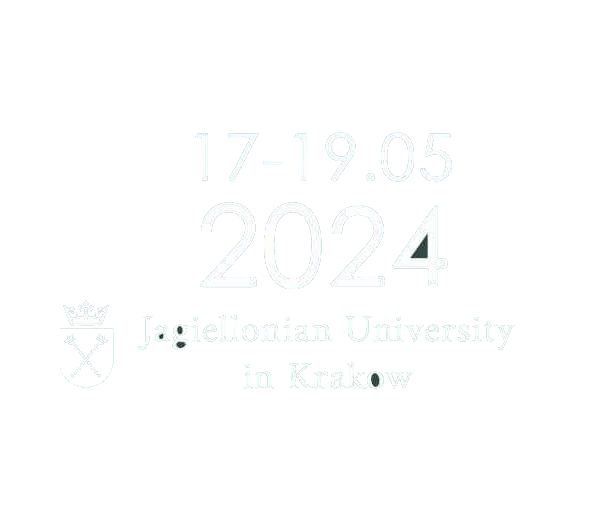
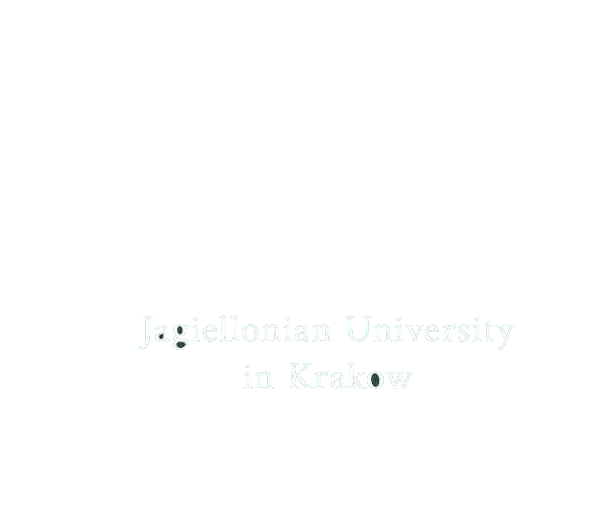
2025 version

diff --git a/src/Utils/Data.js b/src/Utils/Data.js
@@ -4,116 +4,74 @@ import discussion from '../Assets/program/discussion.png';
 
 const Program = [
     {
-        day:"17. May",
+        day:"23. May",
         events:[
+//             {
+//                 title:"Participants registration",
+// /*Max 410 Ch*/  description:"We need to register everyone and open the conference.",
+//                 time:"12:00-14:00",
+//                 speaker:"All attendents",
+//                 icon:null_icon
+//             },           
             {
-                title:"Participants registration",
-/*Max 410 Ch*/  description:"We need to register everyone and open the conference.",
-                time:"12:00-14:00",
-                speaker:"All attendents",
-                icon:null_icon
-            },
-            {
-                title:"Conference opening, inaugural lecture \"Molecular Scissors of CRISPR/Cas9\"",
-                description:"As our first event, we invite you to listen to dr Krzysztof Chyliński talking about CRISPR/Cas9",
-                time:"14:00-15:30",
-                speaker:"dr Krzysztof Chyliński",
+                title:"Events to be scheduled",
+                description:"Attending the Genomica conference is a pathway to many abilities some consider to be unnatural.",
+                time:"Hour/Minute-Hour/Minute",
+                speaker:"Speaker to be revealed",
                 icon:main_event
-            },
-            {
-                title:"Poster Session",
-                description:"We invite you to our first poster session",
-                time:"15:30-17:30",
-                speaker:"All attendents",
-                icon:discussion
             },
         ]
     },
     {
-        day:"18. May",
+        day:"24. May",
         events:[
             {
-                title:"Machine learning methods for the functional analysis of the 3D genome structure",
-                description:"Special lecture",
-                time:"9:00-10:00",
-                speaker:"dr Teresa Szczepińska",
-                icon:main_event
-            },
-            {
-                title:"First oral session",
-                description:"First oral session for 1,5h",
-                time:"10:00-11:30",
-                speaker:"All attendents",
-                icon:discussion
-            },
-            {
-                title:"Second poster session",
-                description:"We invite you to our second poster session for 1h",
-                time:"11:45-12:45",
-                speaker:"All attendents",
-                icon:discussion
-            },
-            {
-                title:"Second oral session",
-                description:"Second oral session for 1,25h",
-                time:"13:00-14:15",
-                speaker:"All attendents",
-                icon:discussion
-            },
-            {
-                title:"Lunch break",
-                description:"Everybody needs a break!",
-                time:"14:15-16:00",
-                speaker:"All attendents",
-                icon:null_icon
-            },
-            {
-                title:"Disease in a dish: cellular models of human genetic disorders",
-                description:"We invite you to our third special lecure presented by dr hab. Neil Kachmakova-Trojanowska, who will talk about models of human genetic disorders",
-                time:"16:00-17:00",
-                speaker:"dr hab. Neil Kachmakova-Trojanowska",
+                title:"Events to be scheduled",
+                description:"Attending the Genomica conference is a pathway to many abilities some consider to be unnatural.",
+                time:"Hour/Minute-Hour/Minute",
+                speaker:"Speaker to be revealed",
                 icon:main_event
             }
         ]
     },
     {
-        day:"19. May",
+        day:"25. May",
         events:[
             {
-                title:"Molecular signature of astrocyte evolution in primates",
-                description:"We invite you to out 4th and last special lecture about astreocyte",
-                time:"9:00-10:00",
-                speaker:"dr hab. Aleksandra Pękowska prof. PAN",
+                title:"Events to be scheduled",
+                description:"Attending the Genomica conference is a pathway to many abilities some consider to be unnatural.",
+                time:"Hour/Minute-Hour/Minute",
+                speaker:"Speaker to be revealed",
                 icon:main_event
             },
-            {
-                title:"Third oral session",
-                description:"We invite you to our third and last oral session",
-                time:"10:00-11:30",
-                speaker:"All attendents",
-                icon:discussion
-            },
-            {
-                title:"Third poster session",
-                description:"We invite you to our third and last poster session",
-                time:"11:30-13:00",
-                speaker:"All attendents",
-                icon:discussion
-            },
-            {
-                title:"Lunch break",
-                description:"Everybody needs a break!",
-                time:"13:00-14:30",
-                speaker:"All attendents",
-                icon:null_icon
-            },
-            {
-                title:"Conference conclusion, award ceremony",
-                description:"Everything eventually comes to an end, as this event. We invite you to stay and thank everybody who took part in this event",
-                time:"15:00-15:30",
-                speaker:"Everyone",
-                icon:null_icon
-            },
+            // {
+            //     title:"Third oral session",
+            //     description:"We invite you to our third and last oral session",
+            //     time:"10:00-11:30",
+            //     speaker:"All attendents",
+            //     icon:discussion
+            // },
+            // {
+            //     title:"Third poster session",
+            //     description:"We invite you to our third and last poster session",
+            //     time:"11:30-13:00",
+            //     speaker:"All attendents",
+            //     icon:discussion
+            // },
+            // {
+            //     title:"Lunch break",
+            //     description:"Everybody needs a break!",
+            //     time:"13:00-14:30",
+            //     speaker:"All attendents",
+            //     icon:null_icon
+            // },
+            // {
+            //     title:"Conference conclusion, award ceremony",
+            //     description:"Everything eventually comes to an end, as this event. We invite you to stay and thank everybody who took part in this event",
+            //     time:"15:00-15:30",
+            //     speaker:"Everyone",
+            //     icon:null_icon
+            // },
         ]
     }
 ];

diff --git a/src/Components/Static_Banner/staticBanner.js b/src/Components/Static_Banner/staticBanner.js
@@ -10,19 +10,19 @@ export default function staticBanner() {
           <div className='Static-Banner-Left-Data'>
             <h2>As the New Year unfolds, we announce the</h2>
             <h1>8th edition of the Genetics Conference "Genomica"</h1>
-            <p><span className='delete_res'>The whole team is actively working on preparing the event, and we can now confirm its dates. Join us from May 17-19, 2024, at the Institute of Zoology, Jagiellonian University in Krakow.
+            <p><span className='delete_res'>The whole team is actively working on preparing the event, and we can now confirm its dates. Join us from May 23-25, 2025, at the Institute of Zoology, Jagiellonian University in Krakow.
               Genomica Conference is an excellent opportunity to broaden your horizons, networking, and experience active participation in the science conference.
               We encourage you to follow our social media for more information.</span></p>
             <p>The "Genomica" Student Conference of Genetics is an annual event gathering students, specialists, and outstanding scientists interested in genetics. It provides a unique opportunity to broaden your horizons, networking, and experience active participation in the science conference.
-              From May 17th to 19th this year, during the 8th edition of the "Genomica” Student Conference of Genetics, you will have the chance to share your passion, discuss fascinating research projects, and inspire each other. This event not only enhances knowledge but also creates a space for building a community of young scientists.
-              We invite you to participate in this unique event where science meets passion, and inspiration arises from engaging dialogues. Reserve your time for the May days of the 8th edition of the "Genomica" Conference!</p>
+              From May 23th to 25th this year, during the 8th edition of the "Genomica” Student Conference of Genetics, you will have the chance to share your passion, discuss fascinating research projects, and inspire each other. This event not only enhances knowledge but also creates a space for building a community of young scientists.
+              We invite you to participate in this unique event where science meets passion, and inspiration arises from engaging dialogues. Reserve your time for the May days of the 9th edition of the "Genomica" Conference!</p>
               <p>See you there! 👋</p>
           </div>
         </div>
         <div className='Static-Banner-Right'>
           <div className='Static-Banner-Right-Container'>
             <img src={photo} alt='logo' />
-            <h3>17 - 19 May <span>Krakow, Poland</span></h3>
+            <h3>23 - 25 May <span>Krakow, Poland</span></h3>
           </div>
         </div>
     </div>

diff --git a/src/Components/Speakers/Speakers.js b/src/Components/Speakers/Speakers.js
@@ -3,11 +3,7 @@ import './Speakers.scss'
 import SpeakerCard from './SpeakerCard/SpeakerCard'
 import TitleComponent from '../TitleComponent/TitleComponent'
 
-import magdaB from '../../Assets/speakers/magda-bienko.png'
-import chyllinski from '../../Assets/speakers/Chylinski.png';
-import szczepinska from '../../Assets/speakers/szczepinska.jpg';
-import pekowska from '../../Assets/speakers/pekowska.png';
-import neli from '../../Assets/speakers/neli.jpg';
+import template from '../../Assets/speakers/speaker_template.png'
 
 export default function Speakers() {
   return (
@@ -20,11 +16,10 @@ export default function Speakers() {
         </TitleComponent>
       </div>
       <div className='Speakers-Container'>
-        <SpeakerCard title='Krzysztof Chyliński' img={chyllinski}>Molecular Biology<br /> CRISPR/Cas-9</SpeakerCard>
-        <SpeakerCard title='Teresa Szczepińska' img={szczepinska}>Bioinformatics and Genome Structure Laboratory,<br /> CEZMAT</SpeakerCard>
-        <SpeakerCard title='Aleksandra Pękowska' img={pekowska}>Head of Dioscuri Centre for Chromatin Biology and Epigenomics</SpeakerCard>
-        <SpeakerCard title='Neli Kachamakova' img={neli}>Molecular Mechanisms of Disease Lab Leader <br /></SpeakerCard> 
-
+        <SpeakerCard title='Speaker #1' img={template}>Speakers will be shortly revealed</SpeakerCard>
+        <SpeakerCard title='Speaker #2' img={template}>Speakers will be shortly revealed</SpeakerCard>
+        <SpeakerCard title='Speaker #3' img={template}>Speakers will be shortly revealed</SpeakerCard>
+        <SpeakerCard title='Speaker #4' img={template}>Speakers will be shortly revealed</SpeakerCard> 
       </div>
     </div>
   )

diff --git a/src/Components/Fotter/Fotter.js b/src/Components/Fotter/Fotter.js
@@ -22,20 +22,20 @@ const social_links = [
 
 const speakers_links = [
   {
-    name: 'Szczepinska',
-    path:"https://cezamat.eu/o-nas/zespol/teresa-szczepinska/"
+    name: 'Speaker #1',
+    path:"https://izp.wnz.cm.uj.edu.pl/pl/blog/covid-19-memes-and-nepal/"
   },
   {
-    name: 'Chyliński',
-    path:'https://binoz.p.lodz.pl/pl/krzysztof-chylinski'
+    name: 'Speaker #2',
+    path:'https://izp.wnz.cm.uj.edu.pl/pl/blog/covid-19-memes-and-nepal/'
   },
   {
-    name:'Kachamakova',
-    path:'https://www.ncbi.nlm.nih.gov/pmc/articles/PMC3656957/'
+    name:'Speaker #3',
+    path:'https://izp.wnz.cm.uj.edu.pl/pl/blog/covid-19-memes-and-nepal/'
   },
   {
-    name:'Pękowska',
-    path:'https://nencki.edu.pl/pl/people/pekowska-aleksandra/'
+    name:'Speaker #4',
+    path:'https://izp.wnz.cm.uj.edu.pl/pl/blog/covid-19-memes-and-nepal/'
   }
 ];
 
@@ -95,7 +95,7 @@ export default function Fotter({links}) {
             </div>
             <div className='Footer-Links Footer-Copyright'>
               <img src={Logo} alt='logo' />
-              <p>&copy; 2024 genomica.pl</p>
+              <p>&copy; 2025 genomica.pl</p>
               <p>Authors: <a href="https://www.linkedin.com/in/kamil-kozik-a1447a220/">Kamil</a> && <a href='https://www.linkedin.com/in/tymoteusz-apriasz-2ba8501a6/'>Tymoteusz</a></p>
             </div>
           </div>

diff --git a/src/Pages/Attachments/Attachments.js b/src/Pages/Attachments/Attachments.js
@@ -4,9 +4,10 @@ export default function Attachments() {
     return (
         <div style={{width: '1080px', margin: '10px auto'}}>
             <h1>Payment details</h1>
-            <p> BANK: PEKAO SA</p>
+            <p>Payment details will be shared later</p>
+            {/* <p> BANK: PEKAO SA</p>
             <p>SWIFT CODE: PKOPPLPW</p>
-            <p>IBAN PL: 90 1240 4722 1111 0000 4854 4715</p>
+            <p>IBAN PL: 90 1240 4722 1111 0000 4854 4715</p> */}
 
             <h3>Declarations</h3>
             <p></p>

diff --git a/public/index.html b/public/index.html
@@ -25,7 +25,7 @@
       work correctly both with client-side routing and a non-root public URL.
       Learn how to configure a non-root public URL by running `npm run build`.
     -->
-    <title>Genomica</title>
+    <title>9th Genomica Edition 25.05.2025</title>
   </head>
   <body>
     <noscript>You need to enable JavaScript to run this app.</noscript>

diff --git a/src/Utils/BackgroundAnimation.js b/src/Utils/BackgroundAnimation.js
@@ -29,7 +29,7 @@ class Field{
 
 
 class BackgroundAnimation{
-    static colors = ['#C2CAE8','#8789C0','#8380B6','#1e11D4A'];
+    static colors = ['#598F78','#4A6785','#4A6785','#BEB8EB'];
     /**
      * Konstruktor bierze za argument ctx, szerokosc okna, wysokosc okna
      * @param {CanvasRenderingContext2D} ctx 

diff --git a/src/Components/Program/Program.js b/src/Components/Program/Program.js
@@ -3,7 +3,6 @@ import './Program.scss';
 import Element from './ProgramElement/ProgramElement';
 import TitleComponent from '../TitleComponent/TitleComponent';
 import { ProgramData } from '../../Utils/Data';
-import program from '../../Assets/program/schedule.jpg'
 
 
 export default function Program() {

diff --git a/src/Components/Speakers/SpeakerCard/SpeakerCard.scss b/src/Components/Speakers/SpeakerCard/SpeakerCard.scss
@@ -13,7 +13,7 @@
         width:125px;
         height: 125px;
         border-radius: 2px; 
-        box-shadow: 0px 0px 5px black;
+        // box-shadow: 0px 0px 5px black;
         img{
             height: 100%;
             width: 100%;

diff --git a/src/Components/Banner/Banner.scss b/src/Components/Banner/Banner.scss
@@ -14,6 +14,7 @@
         top:0px;
         left:0px;
         z-index: 0;
+        background-color: rgba(0,0,0,0.25);
     }
     .Banner-Data{
         width:1420px;
